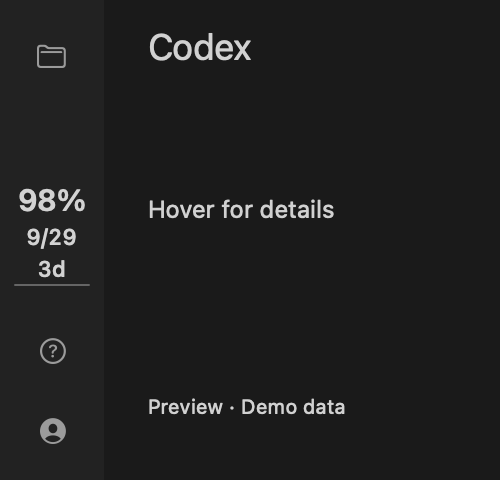
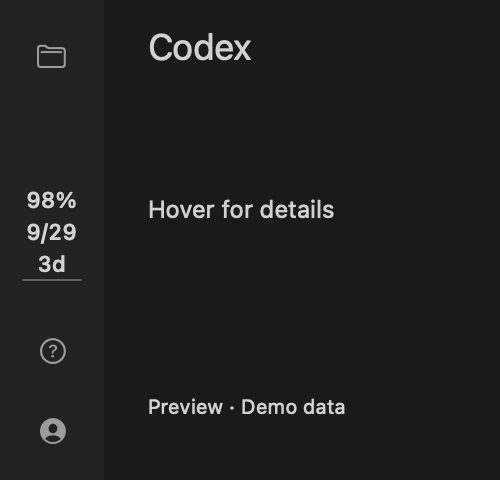
fix: unify navigation rail typography (v0.8.7)

Changed region(s): [[0.03, 0.375, 0.18, 0.5938]]

diff --git a/Tests/CodexQuotaAppTests/TestRunner.swift b/Tests/CodexQuotaAppTests/TestRunner.swift
@@ -494,6 +494,16 @@ private struct AppTests {
         chip.update(title: title, tooltip: "Full details", usageDeviation: nil)
         chip.layoutSubtreeIfNeeded()
         let label = chip.subviews.compactMap { $0 as? NSTextField }.first!
+        func expectUniformTypography() throws {
+            let text = label.attributedStringValue
+            var fonts: [NSFont] = []
+            text.enumerateAttribute(.font, in: NSRange(location: 0, length: text.length)) { value, _, _ in
+                if let font = value as? NSFont { fonts.append(font) }
+            }
+            try expect(!fonts.isEmpty && fonts.allSatisfy { $0 == fonts.first },
+                       "竖排百分比、日期、天数的字号与字重必须一致")
+        }
+        try expectUniformTypography()
         try expect(label.stringValue == L("98%\n9/29\n3天", "98%\n9/29\n3d"), "窄栏仍压成单行百分比，未呈现日期和天数")
         try expect(abs(label.frame.midY - chip.bounds.midY) < 1, "三行文字未垂直居中")
         try expect(abs(label.frame.midX - chip.bounds.midX) < 1, "三行文字未水平居中")
@@ -514,6 +524,7 @@ private struct AppTests {
         chip.setFrameSize(NSSize(width: 40, height: 64))
         chip.update(title: L("100% · 12月31日 · 7天", "100% · Dec 31 · 7d"), tooltip: "Full details", usageDeviation: nil)
         chip.layoutSubtreeIfNeeded()
+        try expectUniformTypography()
         try expect(chip.bounds.contains(label.frame) && label.frame.height <= 56,
                    "100% 在最窄导航栏意外折行：\(label.frame)")
         chip.update(title: title, tooltip: "Full details", usageDeviation: QuotaUsageDeviation(signedPercentagePoints: 30))

diff --git a/Sources/CodexQuotaApp/QuotaOverlayPanel.swift b/Sources/CodexQuotaApp/QuotaOverlayPanel.swift
@@ -99,18 +99,11 @@ final class QuotaChipView: NSView {
             paragraph.alignment = .center
             paragraph.lineSpacing = 2
             paragraph.lineBreakMode = .byClipping
-            let percent = lines.first ?? ""
-            let percentFont = [15.0, 13.0, 11.0].map {
-                NSFont.monospacedDigitSystemFont(ofSize: $0, weight: .semibold)
-            }.first { (percent as NSString).size(withAttributes: [.font: $0]).width <= bounds.width - 8 }
-                ?? .monospacedDigitSystemFont(ofSize: 11, weight: .semibold)
-            let attributed = NSMutableAttributedString(string: text, attributes: [
+            let attributed = NSAttributedString(string: text, attributes: [
                 .font: NSFont.monospacedDigitSystemFont(ofSize: 11, weight: .medium),
                 .paragraphStyle: paragraph,
                 .foregroundColor: needsAttention ? NSColor.labelColor : NSColor.secondaryLabelColor,
             ])
-            attributed.addAttribute(.font, value: percentFont,
-                                    range: NSRange(location: 0, length: percent.utf16.count))
             if !label.attributedStringValue.isEqual(to: attributed) {
                 label.attributedStringValue = attributed
                 needsDisplay = true

diff --git a/docs/releases/v0.8.7.md b/docs/releases/v0.8.7.md
@@ -1,0 +1,23 @@
+# CodexQuota v0.8.7 (39)
+
+## 中文
+
+- 竖排的剩余百分比、重置日期、剩余天数统一为 11pt、相同中等字重，不再单独放大或加粗百分比。
+- 保留三行居中、文字颜色、悬停详情与偏差下划线；旧版横排样式不变。
+- 增加中英文回归断言，覆盖常规显示、最窄栏的 100% 和长日期；同步中英文说明与虚构数据示意图。
+- 包含 v0.8.6 的新导航栏识别、隐藏缓存恢复、Codex 内置 CLI 路径兼容修复。
+
+升级：在详情的“…”菜单中选择“检查更新”，或下载 `CodexQuota.zip`，退出旧版后将应用放入“应用程序”并启动。如 macOS 提示，请重新授权辅助功能。
+
+验证：67 项核心检查、25 项 AppKit 检查、4 项虚构节点定位器检查及英文模式；Release 构建与签名包校验。字号回归已按先失败、后通过执行。预览使用测试组件和虚构数据，不是真实账户截图。跨版本自动替换与所有多显示器组合尚未穷尽实测；未使用真实重置券。
+
+## English
+
+- Use a consistent 11pt medium font for remaining percentage, reset date, and days remaining. The percentage is no longer enlarged or given extra weight.
+- Preserve centered alignment, text color, hover details, and the deviation underline. Legacy horizontal layout is unchanged.
+- Add Chinese/English regression assertions, including 100% and long dates in the narrowest rail; refresh bilingual documentation and synthetic previews.
+- Includes v0.8.6 fixes for navigation-rail discovery, hidden-cache recovery, and the relocated bundled Codex CLI.
+
+Update via Check for Updates in the details “…” menu, or download `CodexQuota.zip`, quit the old version, move the app into Applications, and launch it. Reauthorize Accessibility if macOS asks.
+
+Validation covers 67 core checks, 25 AppKit checks, 4 locator checks with synthetic nodes, English-mode checks, Release build, and signed-package verification. The typography regression failed before the fix and passed afterward. Previews use synthetic data, not account screenshots. Cross-version automatic replacement and every multi-display combination have not been exhaustively tested. No real reset credit was redeemed.

diff --git a/README.en.md b/README.en.md
@@ -4,7 +4,7 @@
 
 An open-source macOS companion app that shows remaining quota in the Codex sidebar: beside the account name in legacy layouts, or above Help in the new narrow navigation rail. No menu-bar clutter and no modifications to the Codex app bundle.
 
-v0.8.6 adds a three-row navigation-rail layout and fixes data loading after Codex relocated its bundled CLI. See [release notes and validation boundaries](docs/releases/v0.8.6.md).
+v0.8.7 uses the same font size and weight for all three navigation-rail rows, preserving centering and the deviation underline. Includes the v0.8.6 navigation-rail and bundled-CLI compatibility fixes. See [release notes](docs/releases/v0.8.7.md).
 
 ![Navigation-rail layout preview with demo data](docs/images/navigation-rail-preview-en.png)
 

diff --git a/README.md b/README.md
@@ -2,7 +2,7 @@
 
 **简体中文** | [English](README.en.md)
 
-> v0.8.6 增加新版窄导航栏的三行竖排显示，旧版侧栏仍使用横排；同时修复 Codex 内置 CLI 路径变更后的数据读取失败。适配范围与验收边界见[更新说明](docs/releases/v0.8.6.md)。
+> v0.8.7 将竖排的百分比、日期、天数统一为相同字号与字重，保留居中和偏差下划线。包含 v0.8.6 的新版导航栏与数据读取兼容修复，见[更新说明](docs/releases/v0.8.7.md)。
 
 ![新版窄导航栏布局示意，非真实账户](docs/images/navigation-rail-preview-zh.png)
 
